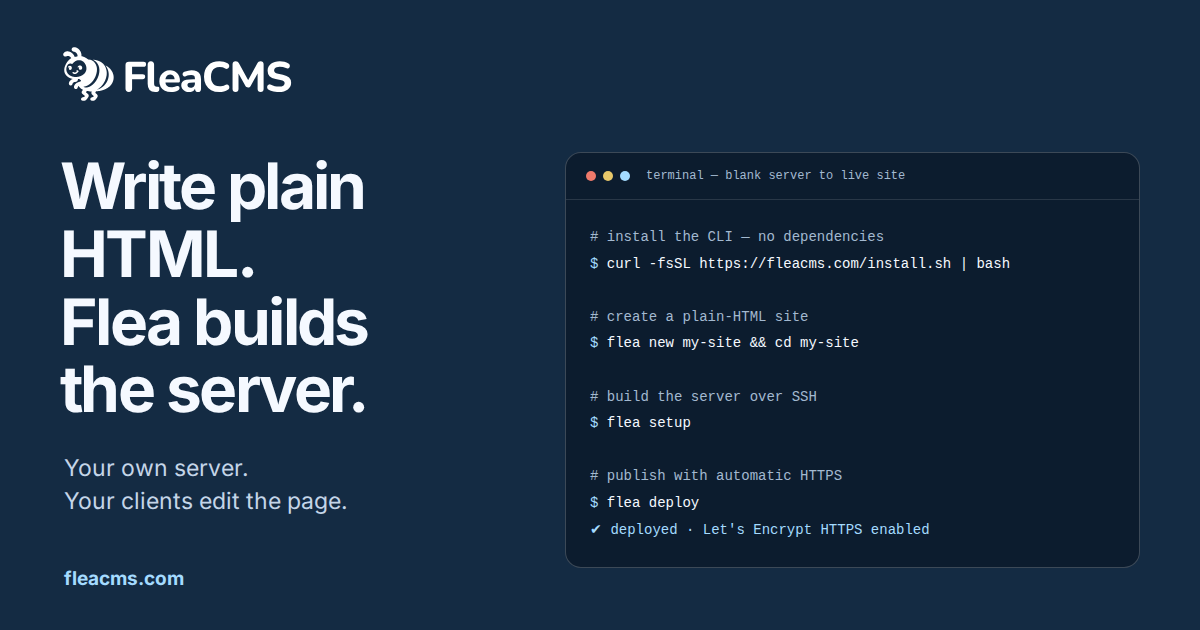
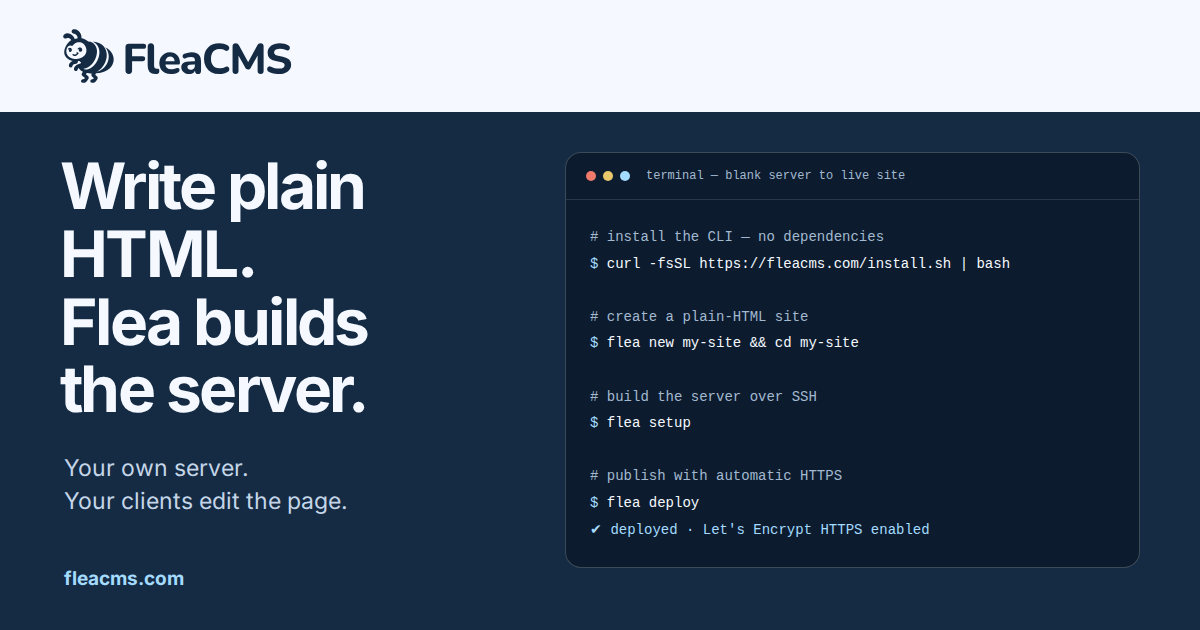
design: apply navy-on-light branding and restore the light header

Changed region(s): [[0.0, 0.0, 1.0, 0.181]]

diff --git a/site/css/global.css b/site/css/global.css
@@ -16,14 +16,17 @@
   .docs-shell { --container-padding:60px var(--space-lg) 100px; }
   .skip-link { position:fixed; top:8px; left:8px; z-index:100; padding:12px 20px; background:white; transform:translateY(-160%); }
   .skip-link:focus { transform:translateY(0); }
-  .site-header { position:sticky; top:var(--flea-toolbar-height,0px); z-index:10; background:var(--brand-2); color:var(--hero-ink); border-bottom:1px solid transparent; }
-  .site-header.is-scrolled { background:color-mix(in srgb,var(--brand-2) 92%,transparent); border-bottom-color:#ffffff1f; }
-  .site-header .site-links > a:not(.ui-button),.site-header > nav > a { color:var(--hero-ink); }
-  .site-header :focus-visible,.site-footer :focus-visible { outline-color:var(--accent); }
-  .site-header > nav { min-height:76px; }
+  .site-header { position:sticky; top:var(--flea-toolbar-height,0px); z-index:10; background:var(--hero-ink); color:var(--black); border-bottom:1px solid transparent; }
+  .site-header.is-scrolled { background:color-mix(in srgb,var(--hero-ink) 94%,transparent); backdrop-filter:blur(12px); border-bottom-color:var(--light); }
+  .site-header .site-links > a:not(.ui-button),.site-header > nav > a { color:var(--black); }
+  .site-header :focus-visible,.site-footer :focus-visible { outline-color:var(--brand-1); }
+  .site-header .ui-button { background:var(--brand-2); color:var(--hero-ink); border-color:var(--brand-2); }
+  .site-header > nav { min-height:76px; column-gap:16px; }
   .wordmark { display:inline-flex; align-items:center; text-decoration:none; }
   .flea-logo { display:block; width:166px; height:40px; max-width:100%; }
   .site-links > a { text-decoration:none; font-size:.85rem; font-weight:600; }
+  .site-links { flex-shrink:0; }
+  .site-links .ui-button { white-space:nowrap; }
   .ui-brand-1 { background:var(--accent); color:var(--black); border-color:var(--accent); }
   .ui-button { border-radius:var(--rounded); font-size:.88rem; min-height:48px; padding:13px 22px; gap:20px; }
   .eyebrow { display:flex; align-items:center; gap:9px; margin:0 0 var(--space-md); font-size:.68rem; font-weight:600; letter-spacing:.09em; text-transform:uppercase; }
@@ -31,10 +34,10 @@
   .quiet-link { color:var(--black); font-size:.86rem; font-weight:600; text-decoration:none; display:inline-flex; gap:12px; align-items:center; }
   a:hover { text-decoration:underline; text-underline-offset:4px; }
   a.ui-button:hover { text-decoration:none; }
-  .site-footer { background:var(--brand-2); color:var(--hero-ink); border-top:1px solid #ffffff1f; font-size:.78rem; }
+  .site-footer { background:var(--hero-ink); color:var(--black); border-top:1px solid var(--light); font-size:.78rem; }
   .footer-inner { display:flex; flex-wrap:wrap; align-items:center; justify-content:space-between; gap:var(--space-md); }
-  .site-footer p { margin:7px 0 0; color:var(--hero-muted); }
-  .site-footer nav a { color:var(--hero-muted); text-decoration:none; }
+  .site-footer p { margin:7px 0 0; color:var(--darker); }
+  .site-footer nav a { color:var(--dark); text-decoration:none; }
   .site-footer .copyright { width:100%; font-size:.7rem; }
   .docs-shell { display:grid; grid-template-columns:220px minmax(0,1fr); gap:75px; padding-block:60px 100px; }
   .docs-sidebar { align-self:start; position:sticky; top:125px; max-height:calc(100dvh - 145px); overflow:auto; }
@@ -95,6 +98,7 @@
     .copy-button { top:8px; right:8px; }
   }
   @media (max-width:360px) {
+    .site-header .flea-logo { width:122px; height:auto; }
     .site-header .container { --container-padding:0 16px; }
     .site-links { gap:10px; }
     .site-links .ui-button { padding-inline:10px; }

diff --git a/site/main.layout.html b/site/main.layout.html
@@ -11,7 +11,7 @@
     <meta property="og:title" content="{page.title} | FleaCMS" />
     <meta property="og:description" content="{page.description}" />
     <meta property="og:url" content="https://fleacms.com{page.path}" />
-    <meta property="og:image" content="https://fleacms.com/images/social-preview.png?v=0184b08761ba" />
+    <meta property="og:image" content="https://fleacms.com/images/social-preview.png?v=12e348bebb2b" />
     <meta property="og:image:type" content="image/png" />
     <meta property="og:image:width" content="1200" />
     <meta property="og:image:height" content="630" />
@@ -19,15 +19,15 @@
     <meta name="twitter:card" content="summary_large_image" />
     <meta name="twitter:title" content="{page.title} | FleaCMS" />
     <meta name="twitter:description" content="{page.description}" />
-    <meta name="twitter:image" content="https://fleacms.com/images/social-preview.png?v=0184b08761ba" />
+    <meta name="twitter:image" content="https://fleacms.com/images/social-preview.png?v=12e348bebb2b" />
     <meta name="twitter:image:alt" content="FleaCMS: Write plain HTML. Flea builds the server. Terminal workflow from installation to HTTPS deployment." />
-    <link rel="stylesheet" href="/css/global.css" />
+    <link rel="stylesheet" href="/css/global.css?v=a8505d4cc5f4" />
     {#if app.current_admin}
     <meta name="csrf-token" content="{app.current_admin.csrf_token}" />
     {/if}
-    <link rel="icon" href="/images/favicon-32.png?v=navy-20261109" type="image/png" sizes="32x32" />
-    <link rel="icon" href="/images/favicon.svg?v=navy-20261109" type="image/svg+xml" />
-    <link rel="apple-touch-icon" href="/images/apple-touch-icon.png?v=navy-20261109" sizes="180x180" />
+    <link rel="icon" href="/images/favicon-32.png?v=positive-20261109" type="image/png" sizes="32x32" />
+    <link rel="icon" href="/images/favicon.svg?v=positive-20261109" type="image/svg+xml" />
+    <link rel="apple-touch-icon" href="/images/apple-touch-icon.png?v=positive-20261109" sizes="180x180" />
   </head>
   <body class="flex flex-col min-h-screen m-0 p-0">
     {#if app.current_admin} {render /admin/toolbar} {/if}
@@ -37,7 +37,7 @@
         class="container flex items-center justify-between"
         aria-label="Main navigation"
       >
-        <a class="wordmark" href="/" aria-label="FleaCMS home"><img class="flea-logo" src="/images/logo-light.svg?v=filled-20261109" width="166" height="40" alt="FleaCMS" /></a>
+        <a class="wordmark" href="/" aria-label="FleaCMS home"><img class="flea-logo" src="/images/logo.svg?v=positive-20261109" width="166" height="40" alt="FleaCMS" /></a>
         <div class="site-links flex items-center gap-md">
           {render /navigation}
         </div>
@@ -47,7 +47,7 @@
     <footer class="site-footer">
       <div class="footer-inner container">
         <div>
-          <a class="wordmark" href="/"><img class="flea-logo" src="/images/logo-light.svg?v=filled-20261109" width="166" height="40" alt="FleaCMS" /></a>
+          <a class="wordmark" href="/"><img class="flea-logo" src="/images/logo.svg?v=positive-20261109" width="166" height="40" alt="FleaCMS" /></a>
           <p>Plain HTML. Your own server. One binary.</p>
         </div>
         <nav class="flex flex-wrap gap-md" aria-label="Footer navigation">

diff --git a/design/logo-fill-study/favicon-reversal.html b/design/logo-fill-study/favicon-reversal.html
@@ -1,0 +1,1 @@
+<!doctype html><html lang="en"><head><meta charset="utf-8"><meta name="viewport" content="width=device-width,initial-scale=1"><title>Favicon color comparison</title><style>*{box-sizing:border-box}body{margin:0;font:14px/1.5 var(--font-sans,Arial,sans-serif);color:var(--foreground,#142b43)}.compare{display:grid;grid-template-columns:1fr 1fr;gap:24px}.sample{display:flex;align-items:center;justify-content:center;min-height:200px;padding:24px;background:#e8edf2;border-radius:12px}.hero{display:block;width:128px;height:128px}.sizes{display:flex;align-items:center;gap:16px;margin-top:16px;min-height:40px}.sizes img{display:block}h2{font-size:15px;font-weight:600;margin:14px 0 0}p{font-size:12px;color:var(--muted-foreground,#60768b);margin:5px 0 0}.note{margin:22px 0 0}@media(max-width:420px){.compare{gap:16px}.sample{padding:16px;min-height:158px}.hero{width:110px;height:110px}}</style></head><body><div class="compare"><section><div class="sample"><img class="hero" src="/home/sean/Worktrees/flea-website/t3-0c4766a6/site/images/favicon.svg" alt="Current white flea on navy background"></div><h2>Current</h2><p>White flea, navy background</p><div class="sizes"><img src="/home/sean/Worktrees/flea-website/t3-0c4766a6/site/images/favicon.svg" width="16" height="16" alt="Current icon at 16 pixels"><img src="/home/sean/Worktrees/flea-website/t3-0c4766a6/site/images/favicon.svg" width="32" height="32" alt="Current icon at 32 pixels"></div></section><section><div class="sample"><img class="hero" src="/home/sean/Worktrees/flea-website/t3-0c4766a6/design/logo-fill-study/favicon-reversed.svg" alt="Reversed navy flea on light background"></div><h2>Reversed again</h2><p>Navy flea, light background</p><div class="sizes"><img src="/home/sean/Worktrees/flea-website/t3-0c4766a6/design/logo-fill-study/favicon-reversed.svg" width="16" height="16" alt="Reversed icon at 16 pixels"><img src="/home/sean/Worktrees/flea-website/t3-0c4766a6/design/logo-fill-study/favicon-reversed.svg" width="32" height="32" alt="Reversed icon at 32 pixels"></div></section></div><p class="note">Preview only. The live website is unchanged.</p></body></html>

diff --git a/site/admin.layout.html b/site/admin.layout.html
@@ -6,16 +6,16 @@
     <title>Admin | {app.site_name}</title>
     <link rel="stylesheet" href="/css/navigation.css" />
     <style>@view-transition { navigation: auto; } @media (prefers-reduced-motion: reduce) { @view-transition { navigation: none; } }</style>
-    <link rel="stylesheet" href="/css/global.css" />
-    <link rel="icon" href="/images/favicon-32.png?v=navy-20261109" type="image/png" sizes="32x32" />
-    <link rel="icon" href="/images/favicon.svg?v=navy-20261109" type="image/svg+xml" />
-    <link rel="apple-touch-icon" href="/images/apple-touch-icon.png?v=navy-20261109" sizes="180x180" />
+    <link rel="stylesheet" href="/css/global.css?v=a8505d4cc5f4" />
+    <link rel="icon" href="/images/favicon-32.png?v=positive-20261109" type="image/png" sizes="32x32" />
+    <link rel="icon" href="/images/favicon.svg?v=positive-20261109" type="image/svg+xml" />
+    <link rel="apple-touch-icon" href="/images/apple-touch-icon.png?v=positive-20261109" sizes="180x180" />
   </head>
   <body class="admin-shell m-0">
     <header class="site-header">
       <nav class="flex items-center gap-sm px-md py-sm">
         <a class="inline-flex items-center text-black no-underline" href="/">
-          <img class="flea-logo" src="/images/logo-light.svg?v=filled-20261109" width="166" height="40" alt="FleaCMS" />
+          <img class="flea-logo" src="/images/logo.svg?v=positive-20261109" width="166" height="40" alt="FleaCMS" />
         </a>
         <a class="ml-auto text-sm" href="/">Back to website</a>
         {#if admin.email}

diff --git a/design/social-preview.html b/design/social-preview.html
@@ -9,8 +9,8 @@
   * { box-sizing: border-box; }
   html, body { margin: 0; width: 1200px; height: 630px; overflow: hidden; }
   body { position: relative; background: var(--hero-bg); color: var(--hero-ink); font-family: var(--font-heading); }
-  .brand { position: absolute; left: 60px; top: 46px; }
-  .brand img { width: 233px; height: 56px; filter: brightness(0) invert(1); }
+  .brand { position:absolute; left:0; right:0; top:0; height:112px; padding-inline:60px; display:flex; align-items:center; background:var(--hero-ink); }
+  .brand img { width: 233px; height: 56px; }
   h1 { position: absolute; top: 152px; left: 60px; margin: 0; font-size: 64px; line-height: 1.06; letter-spacing: -.04em; font-weight: var(--font-bold); }
   .tagline { position: absolute; top: 452px; left: 64px; margin: 0; color: var(--hero-muted); font-size: 23px; line-height: 1.45; }
   .domain { position: absolute; left: 64px; bottom: 37px; color: var(--hero-accent); font-size: 19px; font-weight: var(--font-bold); }

diff --git a/site/js/header.js b/site/js/header.js
@@ -1,4 +1,4 @@
-// Keep the header joined to the hero until the page scrolls beneath it.
+// Reveal the light header divider and translucency after scrolling.
 (function () {
   var header = document.querySelector('.site-header');
   if (!header) return;
